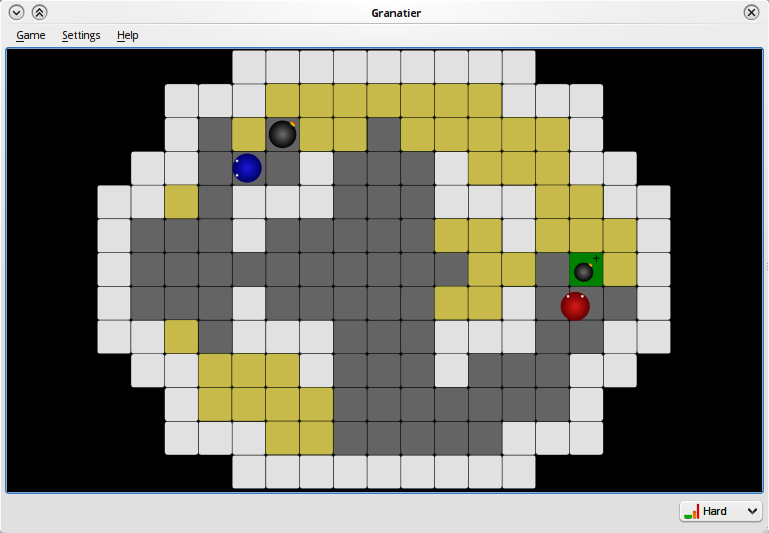
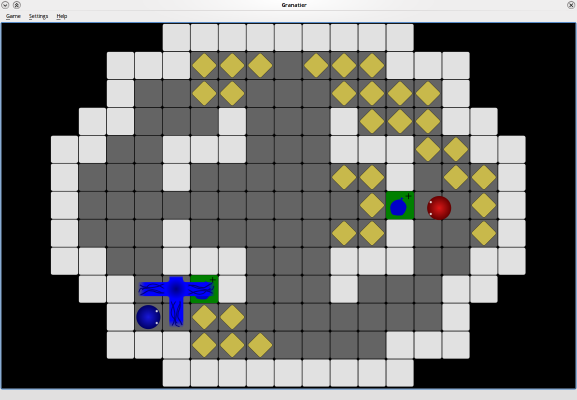
update the theme to fix some rendering issues
svn path=/trunk/playground/games/granatier/; revision=1022634

diff --git a/src/mainwindow.cpp b/src/mainwindow.cpp
@@ -176,14 +176,10 @@ void MainWindow::showSettings()
     }
     KConfigDialog* settingsDialog = new KConfigDialog(this, "settings", Settings::self());
     // General Settings
-    m_nOldNumberOfPlayers = Settings::self()->players();
-    m_nOldPointsToWin = Settings::self()->pointsToWin();
     settingsDialog->addPage(new GeneralSettings(settingsDialog), i18nc("General settings", "General"), "games-config-options");
     // Theme
-    m_strOldTheme = Settings::self()->theme();
     settingsDialog->addPage(new KGameThemeSelector(settingsDialog, Settings::self(), KGameThemeSelector::NewStuffDisableDownload), i18n("Theme"), "games-config-theme");
     // Arena
-    m_strOldArena = Settings::self()->arena();
     settingsDialog->addPage(new ArenaSelector(settingsDialog, Settings::self(), ArenaSelector::NewStuffDisableDownload), i18n("Arena"), "games-config-board");
         
     connect(settingsDialog, SIGNAL(settingsChanged(const QString&)), this, SLOT(loadSettings()));
@@ -192,26 +188,7 @@ void MainWindow::showSettings()
 
 void MainWindow::loadSettings()
 {
-    if(m_strOldTheme != Settings::self()->theme())
-    {
-        ((GameScene*)m_view->scene())->loadTheme();
-        m_strOldTheme = Settings::self()->theme();
-    }
-    if(m_strOldArena != Settings::self()->arena())
-    {
-        initGame();
-        m_strOldArena = Settings::self()->arena();
-    }
-    if(m_nOldNumberOfPlayers != Settings::self()->players())
-    {
-        initGame();
-        m_nOldNumberOfPlayers = Settings::self()->players();
-    }
-    if(m_nOldPointsToWin != Settings::self()->pointsToWin())
-    {
-        initGame();
-        m_nOldPointsToWin = Settings::self()->pointsToWin();
-    }
+    initGame();
 }
 
 void MainWindow::close() {

diff --git a/src/mainwindow.h b/src/mainwindow.h
@@ -44,12 +44,6 @@ class MainWindow : public KXmlGuiWindow {
 
 		/** The highscores dialog */
 		KScoreDialog* m_kScoreDialog;
-        
-        /** The old settings */
-        int m_nOldNumberOfPlayers;
-        int m_nOldPointsToWin;
-        QString m_strOldTheme;
-        QString m_strOldArena;
 		
 	public:
 
